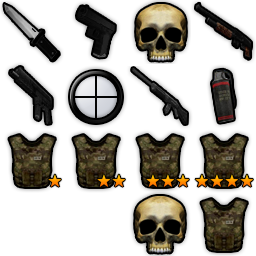
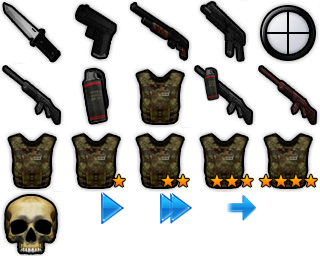
Better items image, and show burst mode

diff --git a/source/src/renderhud.cpp b/source/src/renderhud.cpp
@@ -265,39 +265,49 @@ void drawequipicons(playerent *p)
 		else drawequipicon(560, 1650, 3, 3, 0);
 	drawequipicon(20, 1650, 2, 3, (lastmillis - p->lastregen < 1000 ? 2 : 0) | ((p->state!=CS_DEAD && p->health<=35*HEALTHSCALE && !m_sniper(gamemode, mutators)) ? 1 : 0), p);
 	*/
-	int hc = 2, hr = 3;
+	int hc = 0, hr = 3;
 	if(p->armor)
 	{
-		if(p->armor > 25) { hc = (p->armor - 25) / 25; hr = 2; }
-		else { hc = hr = 3; }
+		hr = 2;
+		if(p->armor >= 100) hc = 4;
+		else if(p->armor >= 75) hc = 3;
+		else if(p->armor >= 50) hc = 2;
+		else if(p->armor >= 25) hc = 1;
+		else hc = 0;
 	}
 	drawequipicon(20, 1650, hc, hr, (lastmillis - p->lastregen < 1000 ? 2 : 0) | ((p->state!=CS_DEAD && p->health<=35*HEALTHSCALE && !m_sniper(gamemode, mutators)) ? 1 : 0), p);
 
 	// grenades
 	int equipx = 0;
-	loopi(min(3, p->mag[WEAP_GRENADE])) drawequipicon(1020 + equipx++ * 25, 1650, 3, 1, 0);
+	loopi(min(3, p->mag[WEAP_GRENADE])) drawequipicon(1020 + equipx++ * 25, 1650, 1, 1, 0);
 	loopi(min(3, p->ammo[WEAP_KNIFE])) drawequipicon(1060 + equipx++ * 30, 1650, 0, 0, 0);
 
 	// weapons
-	int c = p->weaponsel->type, r = 0;
-	if(c == WEAP_GRENADE){// draw nades separately
-		if(p->prevweaponsel && p->prevweaponsel->type != WEAP_GRENADE) c = p->prevweaponsel->type;
-		else if(p->nextweaponsel && p->nextweaponsel->type != WEAP_GRENADE) c = p->nextweaponsel->type;
-		else c = 14; // unknown = HP symbol
-	}
-	if(c == WEAP_AKIMBO) c = WEAP_PISTOL; // same icon for akimbo & pistol
-	switch(c){
-		case WEAP_KNIFE: case WEAP_PISTOL: default: break; // aligned properly
-		case WEAP_SHOTGUN: c = 3; break;
-		case WEAP_SUBGUN: c = 4; break;
-		case WEAP_SNIPER: case WEAP_BOLT: c = 5; break;
-		case WEAP_SWORD: c = 2; break;
-		case WEAP_ASSAULT: case WEAP_ASSAULT2: c = 6; break;
-	}
-	if(c > 3) { c -= 4; r = 1; }
-
-	if(p->weaponsel && p->weaponsel->type>=WEAP_KNIFE && p->weaponsel->type<WEAP_MAX)
+	if(p->weaponsel && p->weaponsel->type>=WEAP_KNIFE && p->weaponsel->type<WEAP_MAX){
+		int c = p->weaponsel->type, r = 0;
+		if(c == WEAP_GRENADE){// draw nades separately
+			if(p->prevweaponsel && p->prevweaponsel->type != WEAP_GRENADE) c = p->prevweaponsel->type;
+			else if(p->nextweaponsel && p->nextweaponsel->type != WEAP_GRENADE) c = p->nextweaponsel->type;
+			else c = 14; // unknown = HP symbol
+		}
+		if(c == WEAP_AKIMBO) c = WEAP_PISTOL; // same icon for akimbo & pistol
+		switch(c){
+			case WEAP_KNIFE: case WEAP_PISTOL: case WEAP_SHOTGUN: case WEAP_SUBGUN: break; // aligned properly
+			default: c = 0; break;
+			case WEAP_SNIPER: case WEAP_BOLT: c = 5; r = 0; break; // snipers are shared
+			case WEAP_ASSAULT: c = 0; r = 1; break;
+			case WEAP_GRENADE: c = 1; r = 1; break;
+			case WEAP_HEAL: c = 2; r = 1; break;
+			case WEAP_RPG: c = 3; r = 1; break;
+			case WEAP_ASSAULT2: c = 4; r = 2; break;
+			case WEAP_SWORD: c = 0; r = 1; break; // special: sword uses knife
+			case WEAP_AKIMBO: c = 1; r = 1; break; // special: pistol and akimbo share
+		}
 		drawequipicon(560, 1650, c, r, ((!p->weaponsel->ammo || p->weaponsel->mag < magsize(p->weaponsel->type) / 3) && p->weaponsel->type != WEAP_KNIFE && p->weaponsel->type != WEAP_GRENADE && p->weaponsel->type != WEAP_SWORD) ? 1 : 0);
+		extern int burst;
+		if(burst_weap(p->weaponsel->type))
+			drawequipicon(560, 1650, burst ? burst == 1 ? 1 : 2 : 3, 3, 0);
+	}
 	glEnable(GL_BLEND);
 }
 
